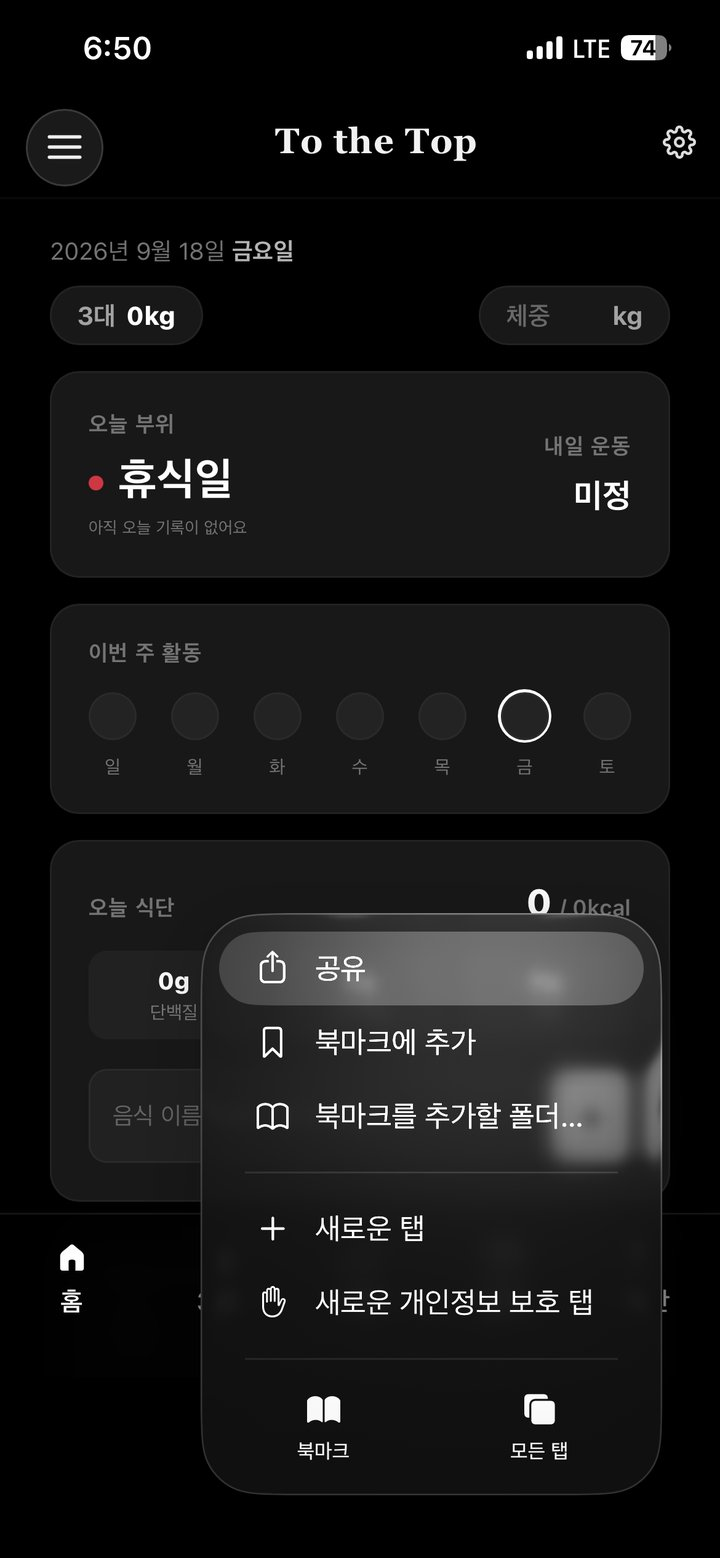
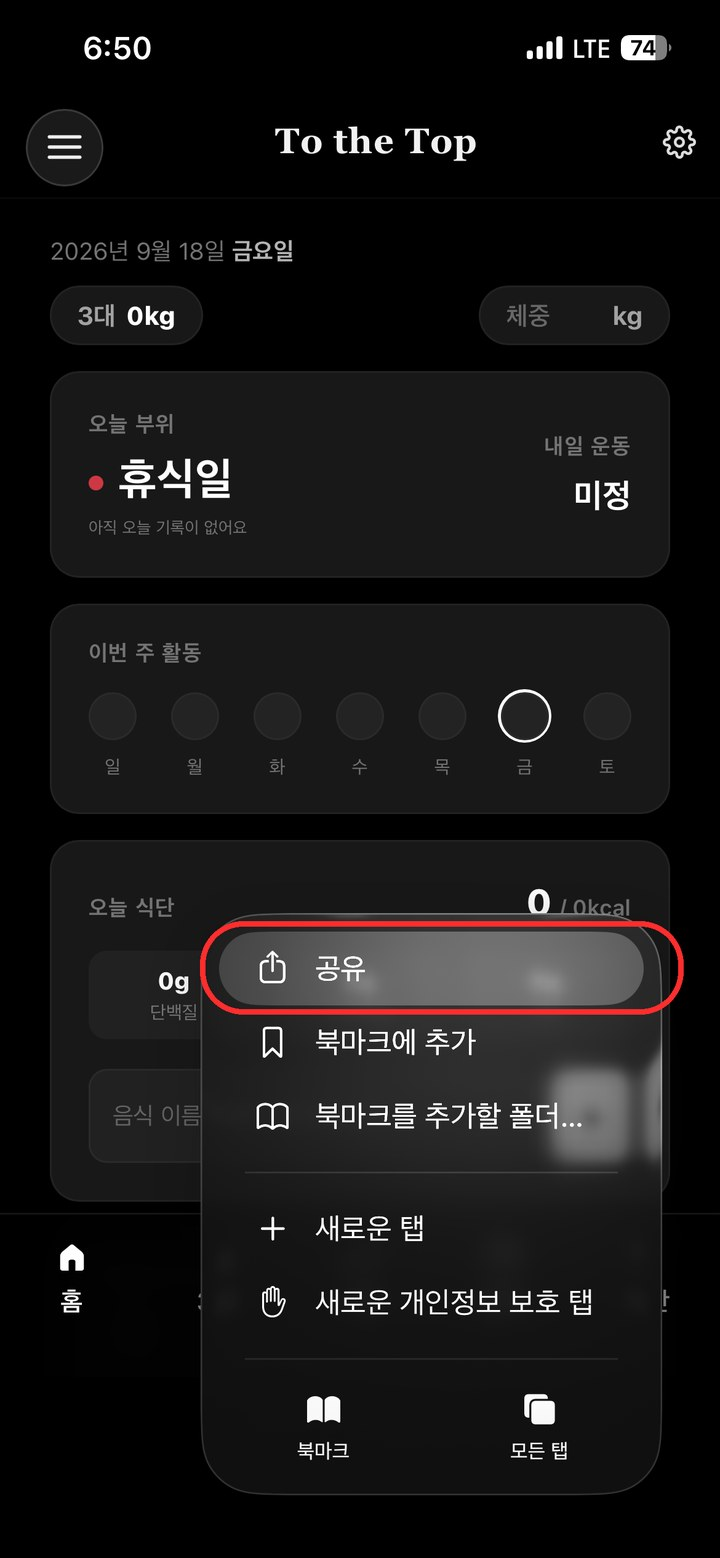
feat: 앱 설치 방법 사진에 빨간 원/테두리로 클릭 위치 표시 (#680)
"앱 설치 방법" 가이드 사진마다 실제로 눌러야 할 버튼(우측 하단 "•••",
"공유", "홈 화면에 추가", "추가")에 빨간 원 또는 사각 테두리를 그려서
어디를 눌러야 할지 한눈에 보이게 함.

표시 위치를 다시 확인하는 과정에서, 기존 3번째 사진(캡션 "공유 시트에서
아래로 스크롤")이 실제로는 스크롤 없이도 "홈 화면에 추가"가 바로 보이는
화면이었고, 4번째 사진(확장된 공유 시트)은 본 흐름에 불필요한 중복
화면이었음을 확인 — 4번째 사진을 빼고 4단계로 정리하면서 캡션도 실제
동작에 맞게 수정:
1. Safari에서 사이트 접속 후 우측 하단 "•••" 탭
2. 메뉴에서 "공유" 탭
3. 공유 시트에서 "홈 화면에 추가" 탭
4. 이름 확인 후 "추가" 탭

Claude-Session: https://claude.ai/code/session_01TNoGCWRQtXcfdnQwZ6HvCX

Changed region(s): [[0.275, 0.5854, 0.9472, 0.647], [0.3056, 0.647, 0.9167, 0.6778]]

diff --git a/index.html b/index.html
@@ -9389,11 +9389,10 @@ window.__bootSplashDonePromise = new Promise(function(resolveBootSplashDone){
     <div id="installGuideBody" style="flex:1; overflow-y:auto; padding-top:6px; padding-bottom:calc(24px + env(safe-area-inset-bottom));">
       <div class="install-guide-platform-label">📱 아이폰 (Safari)</div>
       <div class="install-guide-carousel" id="installGuideCarouselIphoneSafari">
-        <div class="install-guide-slide"><img src="icons/install-guide/iphone-safari-1.jpg" alt=""><div class="install-guide-caption">1. Safari에서 사이트 접속</div></div>
-        <div class="install-guide-slide"><img src="icons/install-guide/iphone-safari-2.jpg" alt=""><div class="install-guide-caption">2. 하단 공유 버튼 탭</div></div>
-        <div class="install-guide-slide"><img src="icons/install-guide/iphone-safari-3.jpg" alt=""><div class="install-guide-caption">3. 공유 시트에서 아래로 스크롤</div></div>
-        <div class="install-guide-slide"><img src="icons/install-guide/iphone-safari-4.jpg" alt=""><div class="install-guide-caption">4. "홈 화면에 추가" 탭</div></div>
-        <div class="install-guide-slide"><img src="icons/install-guide/iphone-safari-5.jpg" alt=""><div class="install-guide-caption">5. 이름 확인 후 "추가" 탭</div></div>
+        <div class="install-guide-slide"><img src="icons/install-guide/iphone-safari-1.jpg" alt=""><div class="install-guide-caption">1. Safari에서 사이트 접속 후 우측 하단 "•••" 탭</div></div>
+        <div class="install-guide-slide"><img src="icons/install-guide/iphone-safari-2.jpg" alt=""><div class="install-guide-caption">2. 메뉴에서 "공유" 탭</div></div>
+        <div class="install-guide-slide"><img src="icons/install-guide/iphone-safari-3.jpg" alt=""><div class="install-guide-caption">3. 공유 시트에서 "홈 화면에 추가" 탭</div></div>
+        <div class="install-guide-slide"><img src="icons/install-guide/iphone-safari-4.jpg" alt=""><div class="install-guide-caption">4. 이름 확인 후 "추가" 탭</div></div>
       </div>
       <div class="install-guide-dots" data-for="installGuideCarouselIphoneSafari"></div>
     </div>
@@ -11228,7 +11227,7 @@ const settingsHeaderName = document.getElementById("settingsHeaderName");
 const settingsHeaderSub = document.getElementById("settingsHeaderSub");
 
 /* ✅ 앱 버전 정의 — 의미 있는 수정/배포마다 올림(설정 화면에서 "최신 버전 받았는지" 확인용) */
-const APP_VERSION = "0.9.215";
+const APP_VERSION = "0.9.216";
 const appVersionDisplay = document.getElementById("appVersionDisplay");
 if (appVersionDisplay) {
   appVersionDisplay.textContent = APP_VERSION;
